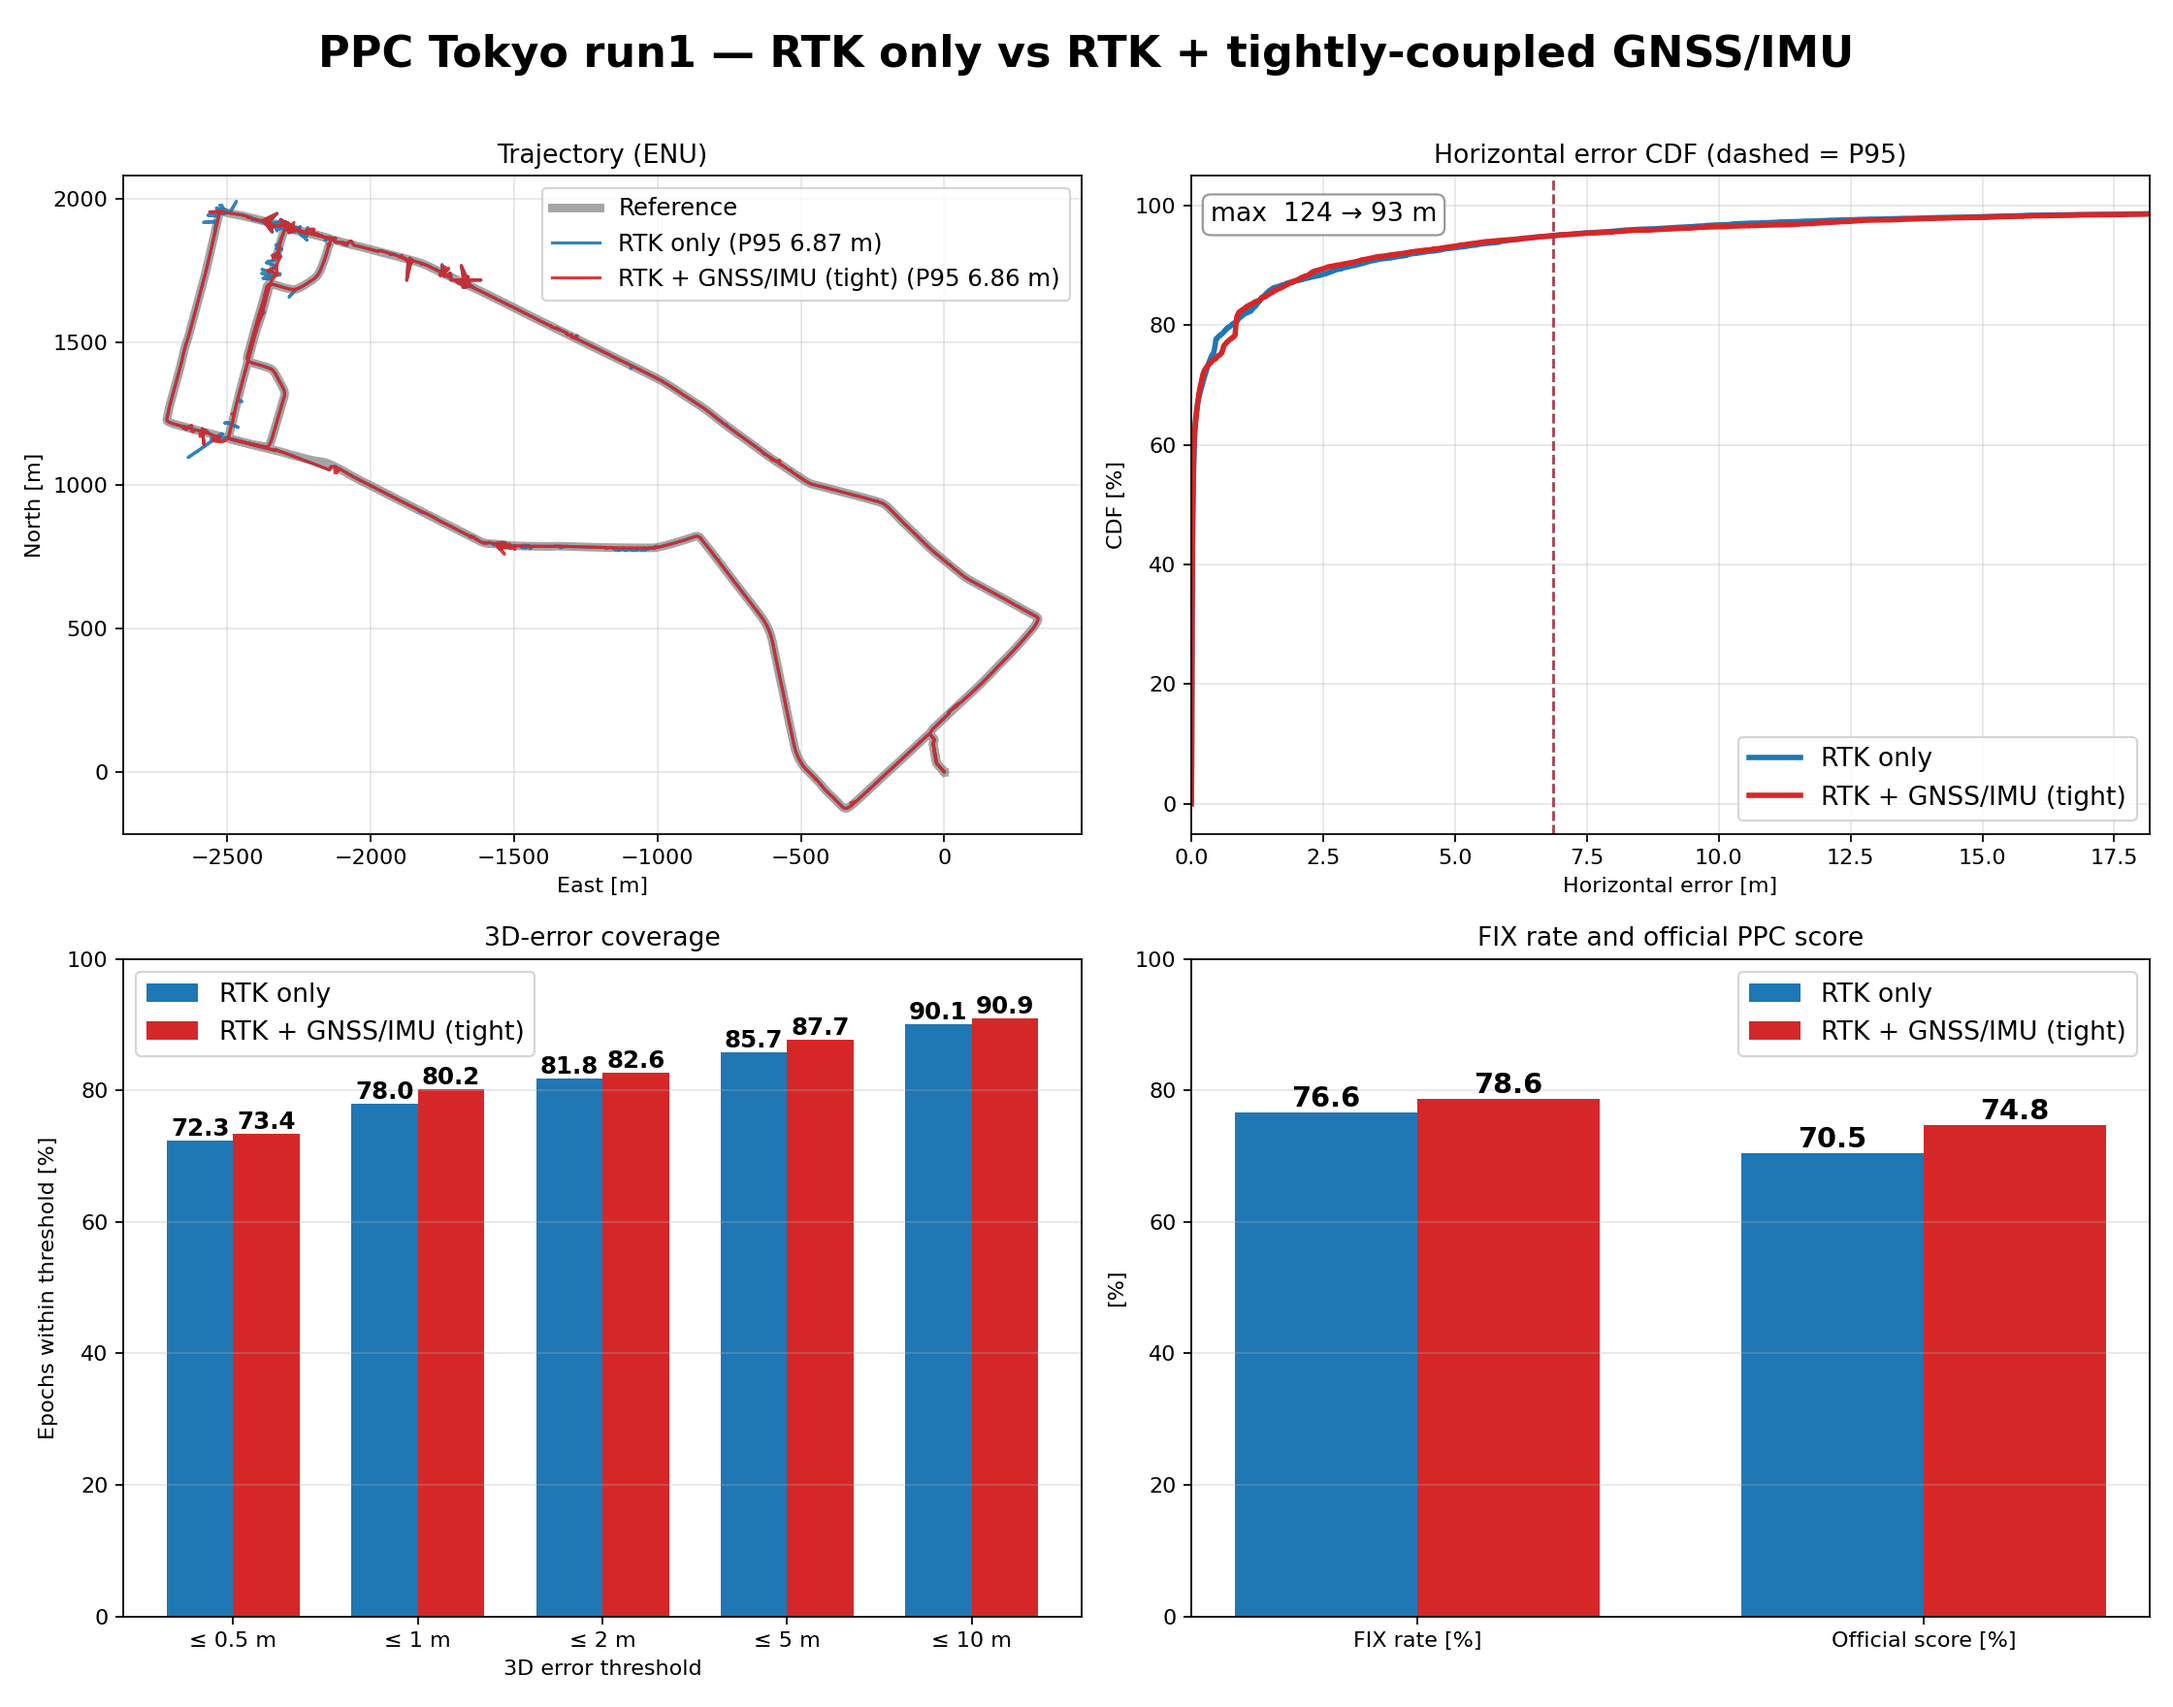
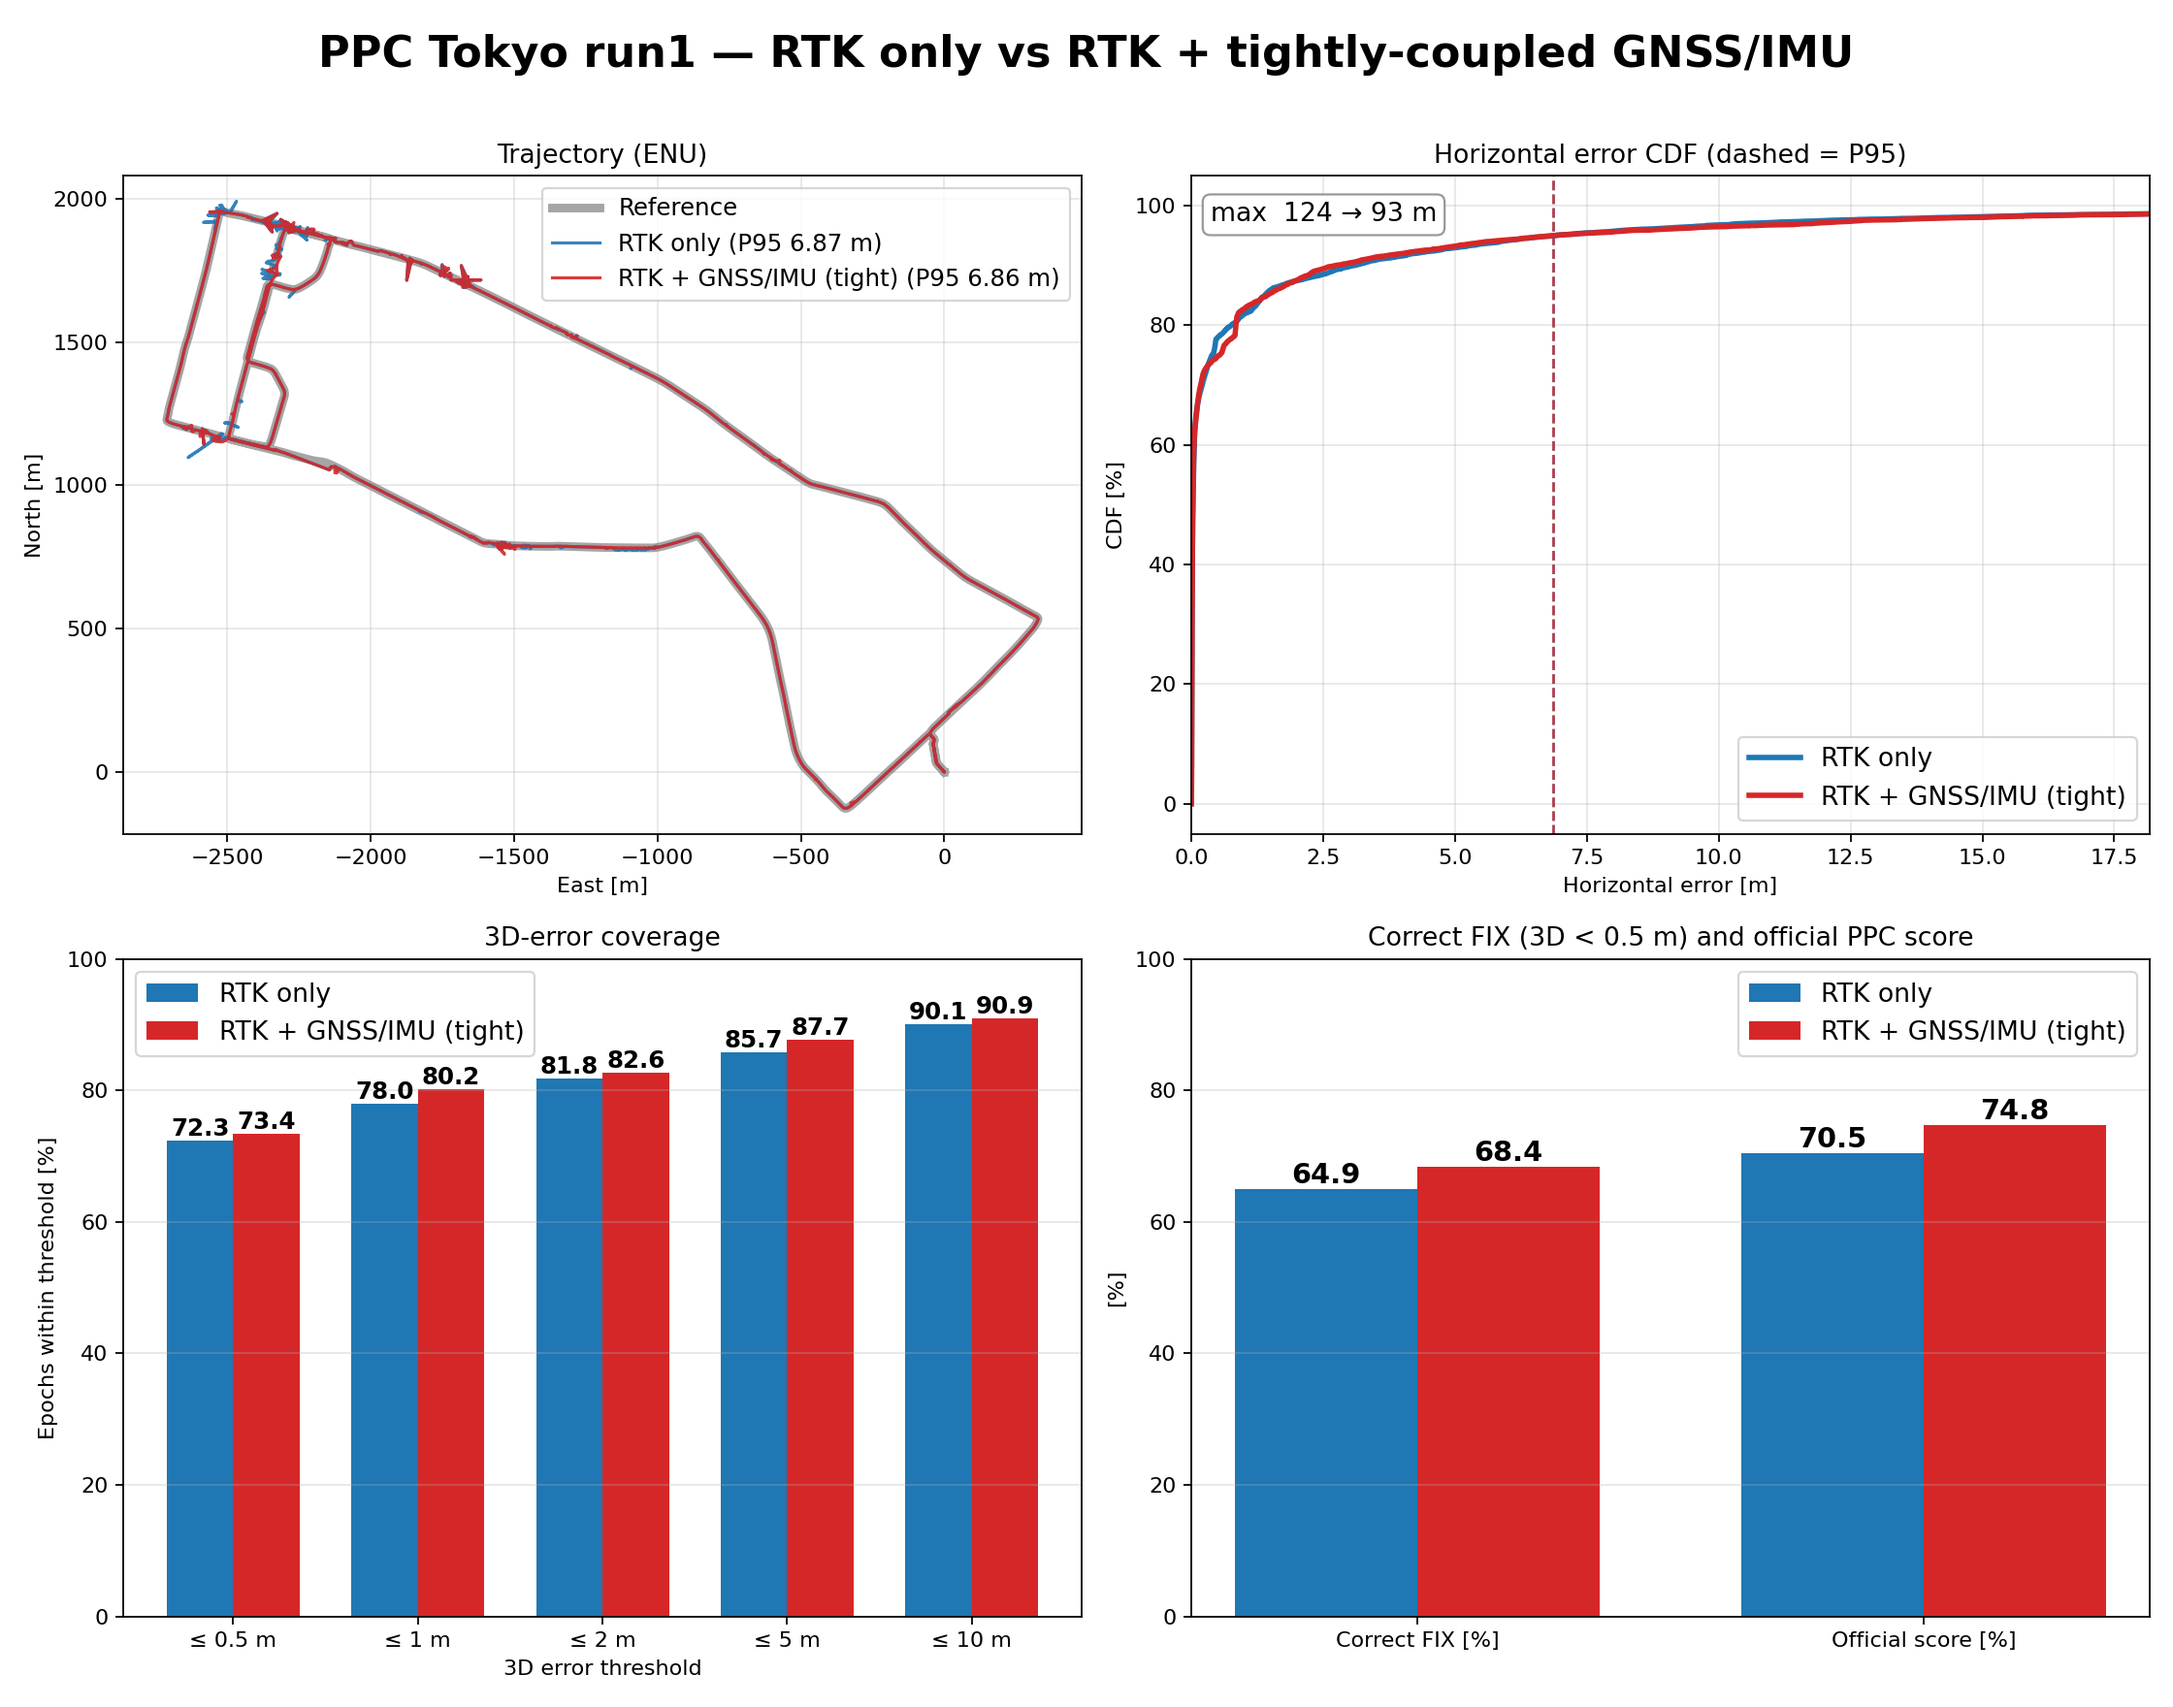
docs(ppc): report FIX integrity after the deployable sigma-demote policy
The quick canonical run has no fix-demotion gates, so wrong-FIX stayed ~9%.
Apply the repo's deployable sigma-demote policy (ratio<=4 or NIS/obs>2, from
configs/benchmarks/ppc_sigma_demote_nis2_ratio4.toml) identically to both arms
in the plotting script. Tokyo run1:

  correct FIX (3D<0.5m)  64.95 -> 68.42 %
  wrong FIX / FIX         8.66 ->  4.15 %  (halved)
  official score         70.46 -> 74.76 %
  worst epoch (FLOAT)      124 ->    93 m

The residual FLOAT tail needs the FGO-path fix-demote/surplus guards or the
offline fixed-anchor bridge (separate from this KF-path preset).

Changed region(s): [[0.5625, 0.625, 0.75, 0.7188], [0.625, 0.5312, 0.9062, 0.5625], [0.625, 0.9375, 0.6875, 0.9688]]

diff --git a/scripts/plot_ppc_rtk_vs_imu_fusion.py b/scripts/plot_ppc_rtk_vs_imu_fusion.py
@@ -16,6 +16,7 @@ Metric definitions are the shared PPC helpers, so the numbers agree with
 from __future__ import annotations
 
 import argparse
+import dataclasses
 import sys
 from pathlib import Path
 
@@ -50,12 +51,32 @@ def parse_args() -> argparse.Namespace:
     parser.add_argument("--rtk-label", default="RTK only")
     parser.add_argument("--fusion-label", default="RTK + GNSS/IMU (tight FGO)")
     parser.add_argument("--match-tolerance-s", type=float, default=0.11)
+    parser.add_argument("--demote-max-ratio", type=float, default=0.0,
+                        help="Demote FIXED to FLOAT when ratio <= value (0 = off); "
+                             "repo sigma-demote uses 4.0")
+    parser.add_argument("--demote-nis-per-obs", type=float, default=0.0,
+                        help="Demote FIXED to FLOAT when NIS/obs > value (0 = off); "
+                             "repo sigma-demote uses 2.0")
     parser.add_argument("--dpi", type=int, default=160)
     return parser.parse_args()
 
 
-def summarize(path: Path, reference, label: str, tol: float) -> dict:
+def summarize(path: Path, reference, label: str, tol: float,
+              demote_max_ratio: float, demote_nis_per_obs: float) -> dict:
     solution = comparison.read_libgnss_pos(path)
+    if demote_max_ratio > 0.0 or demote_nis_per_obs > 0.0:
+        demoted = []
+        for epoch in solution:
+            if epoch.status == 4 and (
+                (demote_max_ratio > 0.0 and epoch.ratio is not None
+                 and epoch.ratio <= demote_max_ratio)
+                or (demote_nis_per_obs > 0.0
+                    and epoch.rtk_update_normalized_innovation_squared_per_observation is not None
+                    and epoch.rtk_update_normalized_innovation_squared_per_observation > demote_nis_per_obs)
+            ):
+                epoch = dataclasses.replace(epoch, status=3)
+            demoted.append(epoch)
+        solution = demoted
     summary = metrics.summarize_solution_epochs(
         reference, solution, 4, label, tol, solver_wall_time_s=None
     )
@@ -71,14 +92,17 @@ def metric_row(summary: dict) -> dict:
         "official": float(summary["ppc_official_score_pct"]),
         "fix": float(summary["fix_rate_pct"]),
         "wrong_fix": float(summary["wrong_fix_rate_pct"]),
+        "correct_fix": float(summary["correct_fix_matched_pct"]),
     }
 
 
 def main() -> int:
     args = parse_args()
     reference = comparison.read_reference_csv(args.reference)
-    rtk = summarize(args.rtk_pos, reference, args.rtk_label, args.match_tolerance_s)
-    fusion = summarize(args.fusion_pos, reference, args.fusion_label, args.match_tolerance_s)
+    rtk = summarize(args.rtk_pos, reference, args.rtk_label, args.match_tolerance_s,
+                    args.demote_max_ratio, args.demote_nis_per_obs)
+    fusion = summarize(args.fusion_pos, reference, args.fusion_label, args.match_tolerance_s,
+                       args.demote_max_ratio, args.demote_nis_per_obs)
     rtk_m, fusion_m = metric_row(rtk["summary"]), metric_row(fusion["summary"])
 
     origin = reference[0]
@@ -151,20 +175,20 @@ def main() -> int:
     ax.legend(fontsize=12)
     ax.grid(alpha=0.3, axis="y")
 
-    # (d) FIX rate and official score
+    # (d) correct FIX and official score
     ax = axes[1, 1]
-    rtk_vals = [rtk_m["fix"], rtk_m["official"]]
-    fusion_vals = [fusion_m["fix"], fusion_m["official"]]
+    rtk_vals = [rtk_m["correct_fix"], rtk_m["official"]]
+    fusion_vals = [fusion_m["correct_fix"], fusion_m["official"]]
     rtk_bars = ax.bar(x - width / 2, rtk_vals, width, color=RTK_COLOR, label=args.rtk_label)
     fusion_bars = ax.bar(x + width / 2, fusion_vals, width, color=FUSION_COLOR, label=args.fusion_label)
     for bars in (rtk_bars, fusion_bars):
         for bar in bars:
             ax.annotate(f"{bar.get_height():.1f}", (bar.get_x() + bar.get_width() / 2, bar.get_height()),
                         ha="center", va="bottom", fontsize=13, fontweight="bold")
-    ax.set_xticks(x, ["FIX rate [%]", "Official score [%]"])
+    ax.set_xticks(x, ["Correct FIX [%]", "Official score [%]"])
     ax.set_ylim(0, 100)
     ax.set_ylabel("[%]")
-    ax.set_title("FIX rate and official PPC score")
+    ax.set_title("Correct FIX (3D < 0.5 m) and official PPC score")
     ax.legend(fontsize=12)
     ax.grid(alpha=0.3, axis="y")
 
@@ -172,10 +196,12 @@ def main() -> int:
     args.output.parent.mkdir(parents=True, exist_ok=True)
     fig.savefig(args.output, dpi=args.dpi)
     print(f"wrote {args.output}")
-    print(f"{args.rtk_label}: fix {rtk_m['fix']:.2f}% P50 {rtk_m['p50']:.3f} P95 {rtk_m['p95']:.3f} "
-          f"3D<50cm {rtk_m['h50']:.2f}% official {rtk_m['official']:.2f}% wrong-fix {rtk_m['wrong_fix']:.2f}%")
-    print(f"{args.fusion_label}: fix {fusion_m['fix']:.2f}% P50 {fusion_m['p50']:.3f} P95 {fusion_m['p95']:.3f} "
-          f"3D<50cm {fusion_m['h50']:.2f}% official {fusion_m['official']:.2f}% wrong-fix {fusion_m['wrong_fix']:.2f}%")
+    print(f"{args.rtk_label}: fix {rtk_m['fix']:.2f}% correct-FIX {rtk_m['correct_fix']:.2f}% "
+          f"wrong-FIX {rtk_m['wrong_fix']:.2f}% P50 {rtk_m['p50']:.3f} P95 {rtk_m['p95']:.3f} "
+          f"official {rtk_m['official']:.2f}% max {rtk_max:.0f} m")
+    print(f"{args.fusion_label}: fix {fusion_m['fix']:.2f}% correct-FIX {fusion_m['correct_fix']:.2f}% "
+          f"wrong-FIX {fusion_m['wrong_fix']:.2f}% P50 {fusion_m['p50']:.3f} P95 {fusion_m['p95']:.3f} "
+          f"official {fusion_m['official']:.2f}% max {fusion_max:.0f} m")
     return 0
 
 

diff --git a/docs/ppc_rtk_vs_gnss_imu_fusion.md b/docs/ppc_rtk_vs_gnss_imu_fusion.md
@@ -9,19 +9,28 @@ PPC helpers, so the numbers agree with `apps/gnss.py ppc-coverage-matrix` and
 the README tables. Per the published navi776 sign-off protocol the compared
 stream is the RTK solution (`--rtk-pos-out`), which the tight loop refines.
 
+FIX integrity is reported after the deployable **sigma-demote** policy from
+`configs/benchmarks/ppc_sigma_demote_nis2_ratio4.toml` (demote a FIXED epoch
+to FLOAT when `ratio <= 4.0` or `NIS/obs > 2.0`), applied identically to both
+arms via `scripts/plot_ppc_rtk_vs_imu_fusion.py --demote-max-ratio 4
+--demote-nis-per-obs 2`.
+
 | metric | RTK only | RTK + GNSS/IMU (tight) | delta |
 |---|---:|---:|---:|
-| FIX rate | 76.58 % | **78.64 %** | +2.06 pp |
+| Correct FIX (3D < 0.5 m) | 64.95 % | **68.42 %** | +3.47 pp |
+| Wrong FIX / FIX | 8.66 % | **4.15 %** | **−4.51 pp** |
+| FIX rate (post-demote) | 71.10 % | **71.38 %** | +0.28 pp |
+| Official PPC score | 70.46 % | **74.76 %** | +4.30 pp |
 | P50 horizontal | 0.031 m | **0.028 m** | −0.003 m |
 | P95 horizontal | 6.869 m | **6.859 m** | −0.010 m |
-| 3D < 0.5 m | 72.33 % | **73.44 %** | +1.11 pp |
-| Official PPC score | 70.46 % | **74.76 %** | +4.30 pp |
-| Wrong FIX / FIX | 9.60 % | **8.92 %** | −0.68 pp |
-| Max horizontal | 124 m | **93 m** | −31 m |
+| 3D < 0.5 m (all epochs) | 72.33 % | **73.44 %** | +1.11 pp |
+| Worst epoch (FLOAT) | 124 m | **93 m** | −31 m |
 
-The gain is concentrated in the FIX-decision quality and the distance-weighted
-official score rather than the P50/P95 percentiles: tight coupling recovers
-correct fixes and removes the largest outliers (max-epoch error).
+Tight coupling roughly **halves the wrong-FIX rate** and raises the
+distance-weighted official score, without giving up FIX rate. The residual
+tail (worst single epoch ≈ 93 m) is a FLOAT/SPP outlier; shrinking it needs
+the FGO-path fix-demote/surplus guards or the offline fixed-anchor FLOAT
+bridge, which are separate from this KF-path preset.
 
 ## Reproduce
 
@@ -44,12 +53,13 @@ build/apps/gnss_fuse \
   --rtk-pos-out output/ppc_rtk_vs_imu_fusion/tokyo1_canon/on_rtk.pos \
   --out        output/ppc_rtk_vs_imu_fusion/tokyo1_canon/on_fused.pos
 
-# Figure
+# Figure (with the deployable sigma-demote policy)
 python3 scripts/plot_ppc_rtk_vs_imu_fusion.py \
   --reference data/PPC-Dataset/tokyo/run1/reference.csv \
   --rtk-pos   output/ppc_rtk_vs_imu_fusion/tokyo1_canon/off_rtk.pos \
   --fusion-pos output/ppc_rtk_vs_imu_fusion/tokyo1_canon/on_rtk.pos \
   --output docs/ppc_rtk_vs_gnss_imu_fusion.png \
+  --demote-max-ratio 4 --demote-nis-per-obs 2 \
   --title "PPC Tokyo run1 — RTK only vs RTK + tightly-coupled GNSS/IMU"
 ```
 
